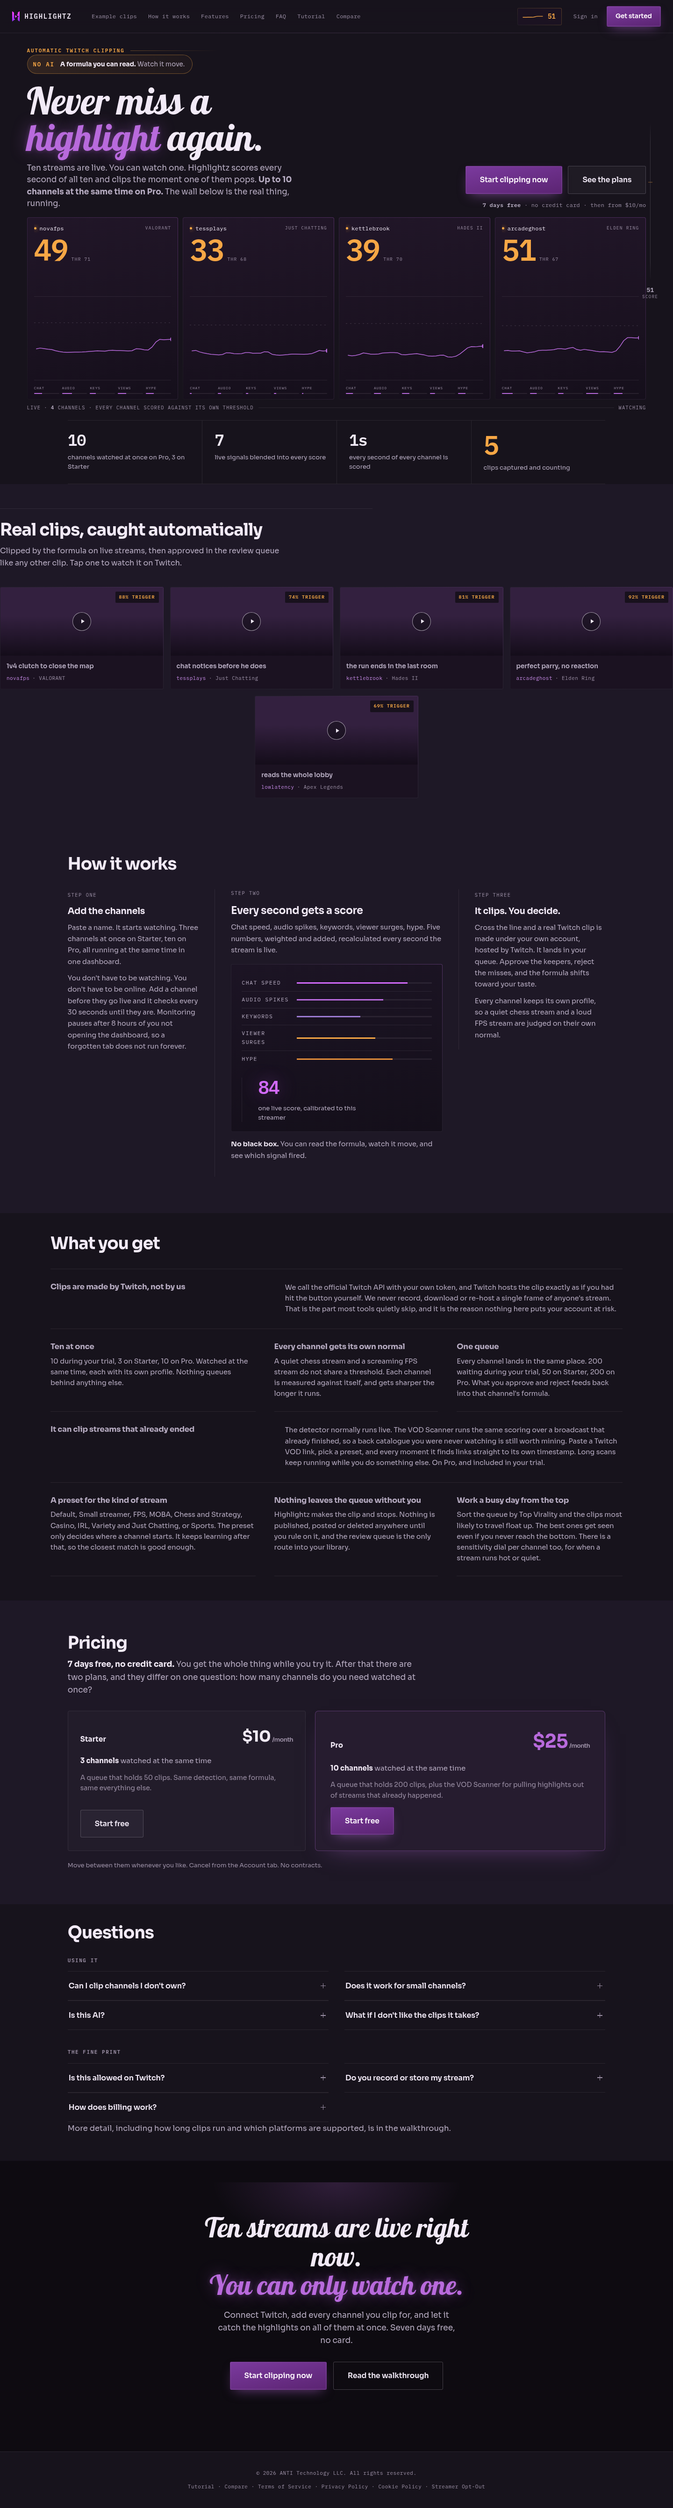
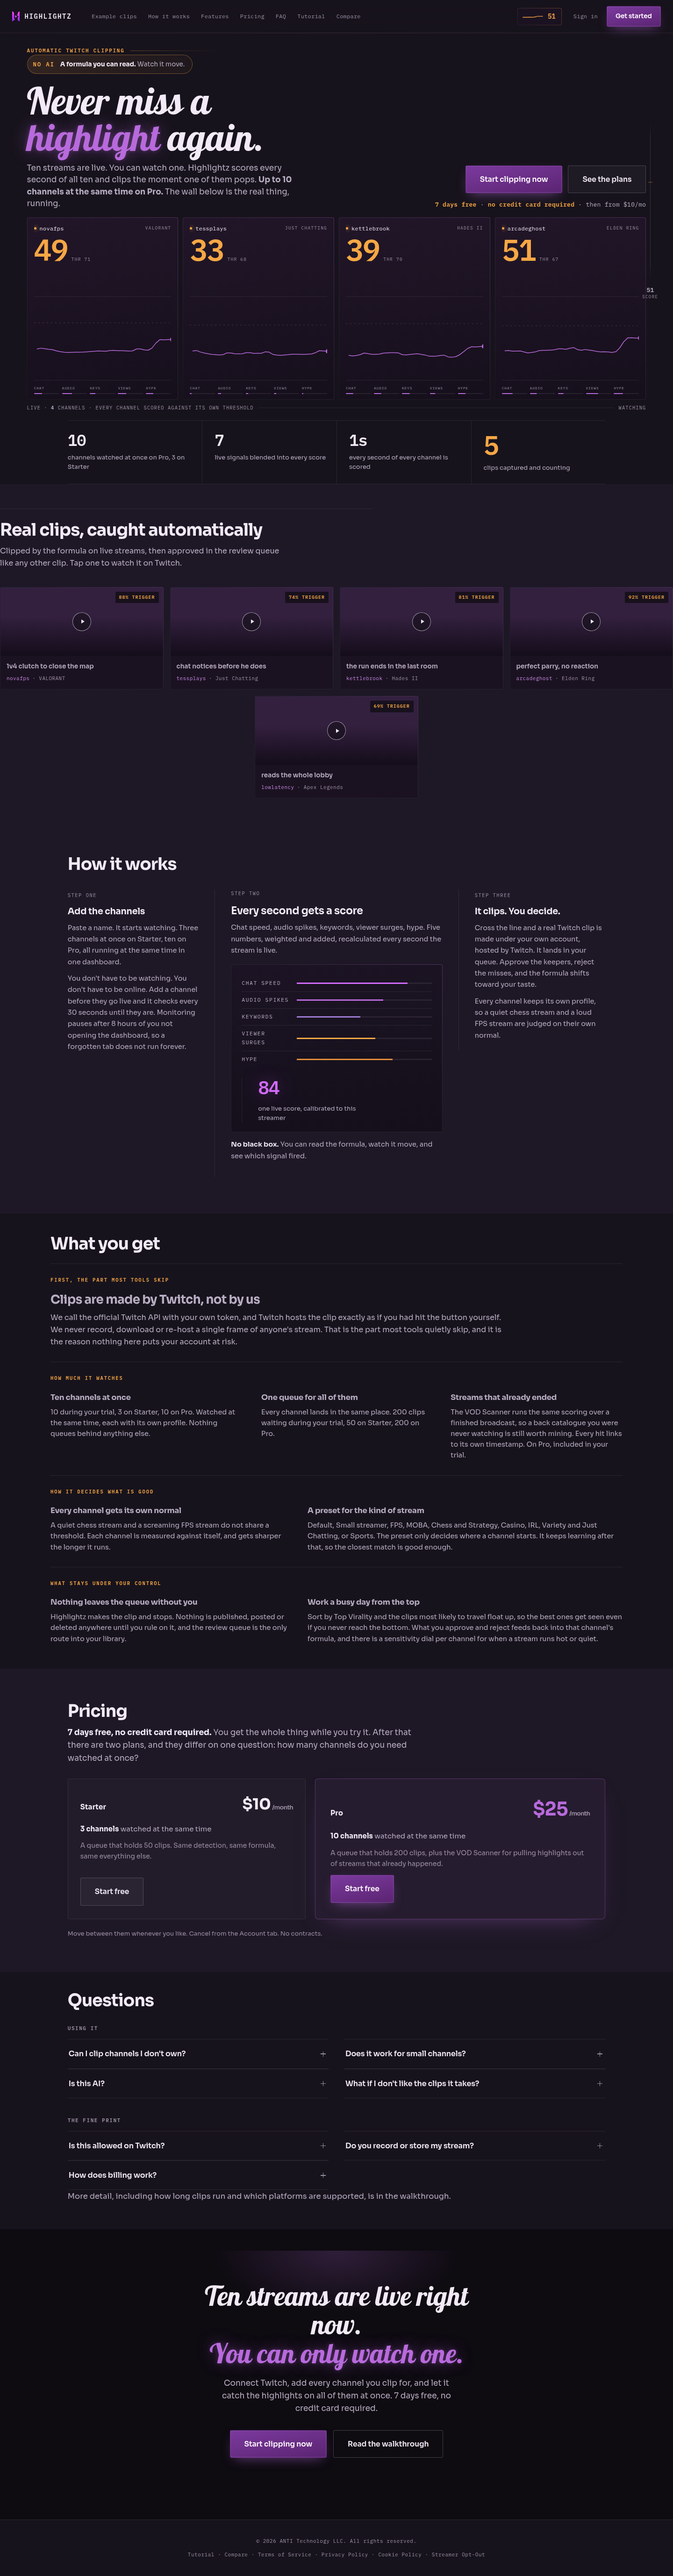
Landing: group the Features section instead of listing eight equal things
REPORTED: "kind of jumbled together". Three things were wrong and they
compounded:

  1. Eight items of identical weight separated by identical hairlines. Nothing
     said which was a headline claim and which was a detail.
  2. The two full-width items split their heading hard left from their body at
     42% across — three hundred pixels of nothing in the middle of the widest,
     most prominent rows on the page. The eye had to jump, and they dominated
     while being the hardest to read.
  3. No order. Safety, capacity, tuning and control were interleaved.

FOUR LABELLED GROUPS NOW, each answering one question, in the order a buyer
asks them:

    FIRST, THE PART MOST TOOLS SKIP   the compliance claim, on its own
    HOW MUCH IT WATCHES               channels, queue, VOD scanner
    HOW IT DECIDES WHAT IS GOOD       per-channel normal, presets
    WHAT STAYS UNDER YOUR CONTROL     nothing auto-publishes, working the queue

The small mono label is the whole fix: it tells you what the next two or three
items have in common before you read any of them. The lead claim keeps its
extra size but puts its heading ABOVE its text with a capped measure, so the
dead gap is gone and a full-width paragraph does not run to 1200px instead.
Two-column groups are 1.08 : 1.42, unequal but not the 1 : 2 that squeezed the
left item to 427px against 759 and read as a mistake rather than a choice.

THE TEST HAS NOW BEEN WRONG TWICE and both times for the same reason: it
[…]

diff --git a/src/dashboard/api.py b/src/dashboard/api.py
@@ -5887,28 +5887,45 @@ LANDING_HTML = """<!DOCTYPE html>
 
   /* ══ FEATURES. Two columns, hairlines instead of cards, mono index instead
      of an icon in a tinted square. ══ */
-  /* ── What you get: four items, deliberately not a 2x3 of equal cards ──────
-     The compliance point runs full width because it is the strongest thing
-     here and the longest to say; the other three sit under it at unequal
-     widths. No icons in tinted squares. The differing heights are the point,
-     not a flaw to be evened out. */
-  .feat-grid{display:grid;grid-template-columns:minmax(0,1.15fr) minmax(0,.92fr) minmax(0,.93fr);
-    gap:0 40px;margin-top:34px;border-top:1px solid var(--hair)}
-  .feat{padding:24px 0 26px;border-bottom:1px solid var(--hair);min-width:0}
-  /* Heading beside the text rather than above it, so the extra width reads as
-     a deliberate layout and not as a paragraph that ran out of words. */
-  .feat-wide{grid-column:1 / -1;padding:28px 0 30px;display:grid;
-    grid-template-columns:minmax(0,.78fr) minmax(0,1.22fr);gap:40px;align-items:start}
-  .feat-wide h3{font-size:24px;letter-spacing:-.022em;line-height:1.2;margin:0}
-  .feat-wide p{font-size:15.5px;margin:0}
-  @media (max-width:900px){.feat-wide{grid-template-columns:minmax(0,1fr);gap:10px}}
-  @media (max-width:900px){
-    .feat-grid{grid-template-columns:minmax(0,1fr);gap:0}
-    .feat-wide h3{font-size:20px}
-  }
-  .feat .ic{color:var(--ember);margin-bottom:9px;display:block}
-  .feat h3{font-size:16.5px;font-weight:700;letter-spacing:-.015em;margin-bottom:6px}
+  /* ── What you get ────────────────────────────────────────────────────────
+     REPORTED: "kind of jumbled together". It was eight items of identical
+     weight separated by identical hairlines, in no order, and the two full
+     width ones split their heading hard left from their body at 42% across —
+     three hundred pixels of nothing in the middle of the widest, most
+     prominent rows on the page. Nothing said which of the eight was a headline
+     claim and which was a detail.
+
+     So they are GROUPED now, four labelled clusters instead of one flat list,
+     and each cluster answers one question. That is also what keeps this off
+     the banned shape: the thing stopping it being a grid of equal cards is the
+     labelled structure, not a count of items. */
+  #features .sec-title{margin-bottom:4px}
+  .feat-group{margin-top:30px;padding-top:26px;border-top:1px solid var(--hair)}
+  .feat-group:first-of-type{margin-top:22px}
+  /* The mono label is the whole fix: it tells you what the next two or three
+     items have in common before you read them. */
+  .feat-label{display:block;font-family:var(--mono);font-weight:600;font-size:10.5px;
+    letter-spacing:.18em;text-transform:uppercase;color:var(--ember);margin-bottom:18px}
+  .feat-grid{display:grid;gap:clamp(22px,2.6vw,44px);align-items:start}
+  /* Unequal on purpose, and the two shapes share a first column so the groups
+     line up down the page instead of each starting somewhere new. */
+  .feat-cols-3{grid-template-columns:minmax(0,1.08fr) minmax(0,.96fr) minmax(0,.96fr)}
+  /* Unequal, but not 1:2 — at that ratio the left item was squeezed to 427px
+     against 759 and looked like a mistake rather than a choice. */
+  .feat-cols-2{grid-template-columns:minmax(0,1.08fr) minmax(0,1.42fr)}
+  .feat{min-width:0}
+  .feat h3{font-size:16.5px;font-weight:700;letter-spacing:-.015em;margin-bottom:7px}
   .feat p{font-size:14.5px;color:var(--ink-2);line-height:1.6}
+  /* The lead claim. Heading ABOVE its text, not beside it: beside it was the
+     dead gap. The measure is capped so a full-width paragraph does not run to
+     1200px and become unreadable. */
+  .feat-wide h3{font-size:clamp(20px,2.1vw,26px);letter-spacing:-.022em;
+    line-height:1.2;margin-bottom:10px}
+  .feat-wide p{font-size:16px;max-width:82ch}
+  @media (max-width:900px){
+    .feat-grid{grid-template-columns:minmax(0,1fr);gap:24px}
+    .feat-group{margin-top:24px;padding-top:22px}
+  }
 
   /* ══ PRICING. Depth from value, not shadow: Pro stands nearest the monitor
      and is a lit surface; the other two recede into the wall. ══ */
@@ -6263,43 +6280,61 @@ LANDING_HTML = """<!DOCTYPE html>
 <!-- Features -->
 <section class="wrap wide" id="features">
   <h2 class="sec-title">What you get</h2>
-  <div class="feat-grid">
+
+  <!-- Four groups, each answering one question, rather than eight items in a
+       row. The order is the order a buyer asks them in: is this safe, how much
+       does it watch, how does it judge, what do I control. -->
+  <div class="feat-group">
+    <span class="feat-label">First, the part most tools skip</span>
     <div class="feat feat-wide">
       <h3>Clips are made by Twitch, not by us</h3>
       <p>We call the official Twitch API with your own token, and Twitch hosts the clip exactly as if you had hit the button yourself. We never record, download or re-host a single frame of anyone's stream. That is the part most tools quietly skip, and it is the reason nothing here puts your account at risk.</p>
     </div>
-    <div class="feat">
-      <h3>Ten at once</h3>
-      <p>10 during your trial, 3 on Starter, 10 on Pro. Watched at the same time, each with its own profile. Nothing queues behind anything else.</p>
-    </div>
-    <div class="feat">
-      <h3>Every channel gets its own normal</h3>
-      <p>A quiet chess stream and a screaming FPS stream do not share a threshold. Each channel is measured against itself, and gets sharper the longer it runs.</p>
-    </div>
-    <div class="feat">
-      <h3>One queue</h3>
-      <p>Every channel lands in the same place. 200 waiting during your trial, 50 on Starter, 200 on Pro. What you approve and reject feeds back into that channel's formula.</p>
-    </div>
+  </div>
 
-    <!-- Second wide row. The VOD Scanner is the largest thing on Pro and was
-         only mentioned inside a pricing card, where nobody reads it. The
-         wide/three/wide/three rhythm is also what keeps this off the banned
-         shape: a symmetric grid of equal cards. -->
-    <div class="feat feat-wide">
-      <h3>It can clip streams that already ended</h3>
-      <p>The detector normally runs live. The VOD Scanner runs the same scoring over a broadcast that already finished, so a back catalogue you were never watching is still worth mining. Paste a Twitch VOD link, pick a preset, and every moment it finds links straight to its own timestamp. Long scans keep running while you do something else. On Pro, and included in your trial.</p>
+  <div class="feat-group">
+    <span class="feat-label">How much it watches</span>
+    <div class="feat-grid feat-cols-3">
+      <div class="feat">
+        <h3>Ten channels at once</h3>
+        <p>10 during your trial, 3 on Starter, 10 on Pro. Watched at the same time, each with its own profile. Nothing queues behind anything else.</p>
+      </div>
+      <div class="feat">
+        <h3>One queue for all of them</h3>
+        <p>Every channel lands in the same place. 200 clips waiting during your trial, 50 on Starter, 200 on Pro.</p>
+      </div>
+      <div class="feat">
+        <h3>Streams that already ended</h3>
+        <p>The VOD Scanner runs the same scoring over a finished broadcast, so a back catalogue you were never watching is still worth mining. Every hit links to its own timestamp. On Pro, included in your trial.</p>
+      </div>
     </div>
-    <div class="feat">
-      <h3>A preset for the kind of stream</h3>
-      <p>Default, Small streamer, FPS, MOBA, Chess and Strategy, Casino, IRL, Variety and Just Chatting, or Sports. The preset only decides where a channel starts. It keeps learning after that, so the closest match is good enough.</p>
+  </div>
+
+  <div class="feat-group">
+    <span class="feat-label">How it decides what is good</span>
+    <div class="feat-grid feat-cols-2">
+      <div class="feat">
+        <h3>Every channel gets its own normal</h3>
+        <p>A quiet chess stream and a screaming FPS stream do not share a threshold. Each channel is measured against itself, and gets sharper the longer it runs.</p>
+      </div>
+      <div class="feat">
+        <h3>A preset for the kind of stream</h3>
+        <p>Default, Small streamer, FPS, MOBA, Chess and Strategy, Casino, IRL, Variety and Just Chatting, or Sports. The preset only decides where a channel starts. It keeps learning after that, so the closest match is good enough.</p>
+      </div>
     </div>
-    <div class="feat">
-      <h3>Nothing leaves the queue without you</h3>
-      <p>Highlightz makes the clip and stops. Nothing is published, posted or deleted anywhere until you rule on it, and the review queue is the only route into your library.</p>
-    </div>
-    <div class="feat">
-      <h3>Work a busy day from the top</h3>
-      <p>Sort the queue by Top Virality and the clips most likely to travel float up. The best ones get seen even if you never reach the bottom. There is a sensitivity dial per channel too, for when a stream runs hot or quiet.</p>
+  </div>
+
+  <div class="feat-group">
+    <span class="feat-label">What stays under your control</span>
+    <div class="feat-grid feat-cols-2">
+      <div class="feat">
+        <h3>Nothing leaves the queue without you</h3>
+        <p>Highlightz makes the clip and stops. Nothing is published, posted or deleted anywhere until you rule on it, and the review queue is the only route into your library.</p>
+      </div>
+      <div class="feat">
+        <h3>Work a busy day from the top</h3>
+        <p>Sort by Top Virality and the clips most likely to travel float up, so the best ones get seen even if you never reach the bottom. What you approve and reject feeds back into that channel's formula, and there is a sensitivity dial per channel for when a stream runs hot or quiet.</p>
+      </div>
     </div>
   </div>
 </section>

diff --git a/tests/test_landing_not_a_template.py b/tests/test_landing_not_a_template.py
@@ -131,29 +131,56 @@ def test_how_it_works_has_no_oversized_numerals():
 
 
 def test_the_feature_grid_is_not_a_symmetric_grid_of_icon_chips():
-    """The banned shape is a 2x3 of identical cards with an icon in a tinted
-    rounded square. What stops it being that is the MIXED SIZES, not the item
-    count — this used to assert exactly four items, which is a proxy that fails
-    the moment the section legitimately grows. It now asserts the rhythm."""
+    """The banned shape is a run of identical cards with an icon in a tinted
+    rounded square.
+
+    This assertion has now been wrong twice, both times because it measured a
+    PROXY. First "exactly four items", which broke the moment the section
+    legitimately grew. Then a run-length rule over item sizes, which broke when
+    the fix for "jumbled together" was to GROUP the items — more structure, and
+    the run-length check read it as less.
+
+    So it measures the structure itself: the section is divided into labelled
+    groups, and no single group is big enough to read as a grid of equal cards.
+    """
     sec = re.search(r'<section[^>]*id="features".*?</section>', HTML, re.S).group(0)
     assert 'class="ic"' not in sec, "icons in tinted squares are back"
-    # Counted with a word boundary: a bare count of 'class="feat' also matches
-    # the feat-grid container.
-    items = re.findall(r'class="feat(?:\s+[^"]*)?"', sec)
-    wide = [i for i in items if "feat-wide" in i]
-    assert wide, "the asymmetric layout is gone; every item is the same size"
-    assert len(items) > len(wide), "every item is wide, which is its own uniform grid"
-    # A run of same-size items with no wide one breaking it up IS the template
-    # shape, whatever the total.
-    runs, run = [], 0
-    for i in items:
-        if "feat-wide" in i:
-            runs.append(run); run = 0
-        else:
-            run += 1
-    runs.append(run)
-    assert max(runs) <= 4, (
-        f"there is a run of {max(runs)} equal cards with nothing breaking it up")
+
+    groups = re.findall(r'<div class="feat-group">(.*?)(?=<div class="feat-group">|$)',
+                        sec, re.S)
+    assert len(groups) >= 3, (
+        f"the section is {len(groups)} group(s) — it is back to one flat list")
+
+    for i, g in enumerate(groups):
+        assert 'class="feat-label"' in g, f"group {i} has no label saying what it is"
+        items = re.findall(r'class="feat(?:\s+[^"]*)?"', g)
+        assert 1 <= len(items) <= 3, (
+            f"group {i} holds {len(items)} items; past three it stops reading as "
+            f"a group and starts reading as a grid")
+
+
+def test_the_lead_claim_still_gets_its_own_weight():
+    """One item carries the argument and is set larger than the rest. Flatten
+    it and the section is eight things of equal importance again."""
+    sec = re.search(r'<section[^>]*id="features".*?</section>', HTML, re.S).group(0)
+    assert "feat-wide" in sec, "the lead claim lost its emphasis"
+    m = re.search(r"\.feat-wide h3\{([^}]*)\}", CSS)
+    assert m, "the lead heading has no rule of its own"
+    assert "clamp(" in m.group(1), "the lead heading is no longer larger than the rest"
+
+
+def test_the_lead_claim_does_not_split_its_heading_away_from_its_text():
+    """WHAT "jumbled" WAS. The full-width item put its heading hard left and
+    started its body at 42% across — three hundred pixels of nothing in the
+    middle of the most prominent row on the page. Heading above its text now,
+    with a capped measure so it does not run to 1200px instead."""
+    m = re.search(r"\.feat-wide p\{([^}]*)\}", CSS)
+    assert m, "the lead body has no rule"
+    assert "max-width" in m.group(1), \
+        "the lead paragraph can run the full width of the page"
+    two_col = re.search(r"\.feat-wide\{[^}]*grid-template-columns[^}]*\}", CSS)
+    assert not two_col, \
+        "the lead item is back to a two-column split with a gap in the middle"
 
 
 # ── craft rules ──────────────────────────────────────────────────────────────
